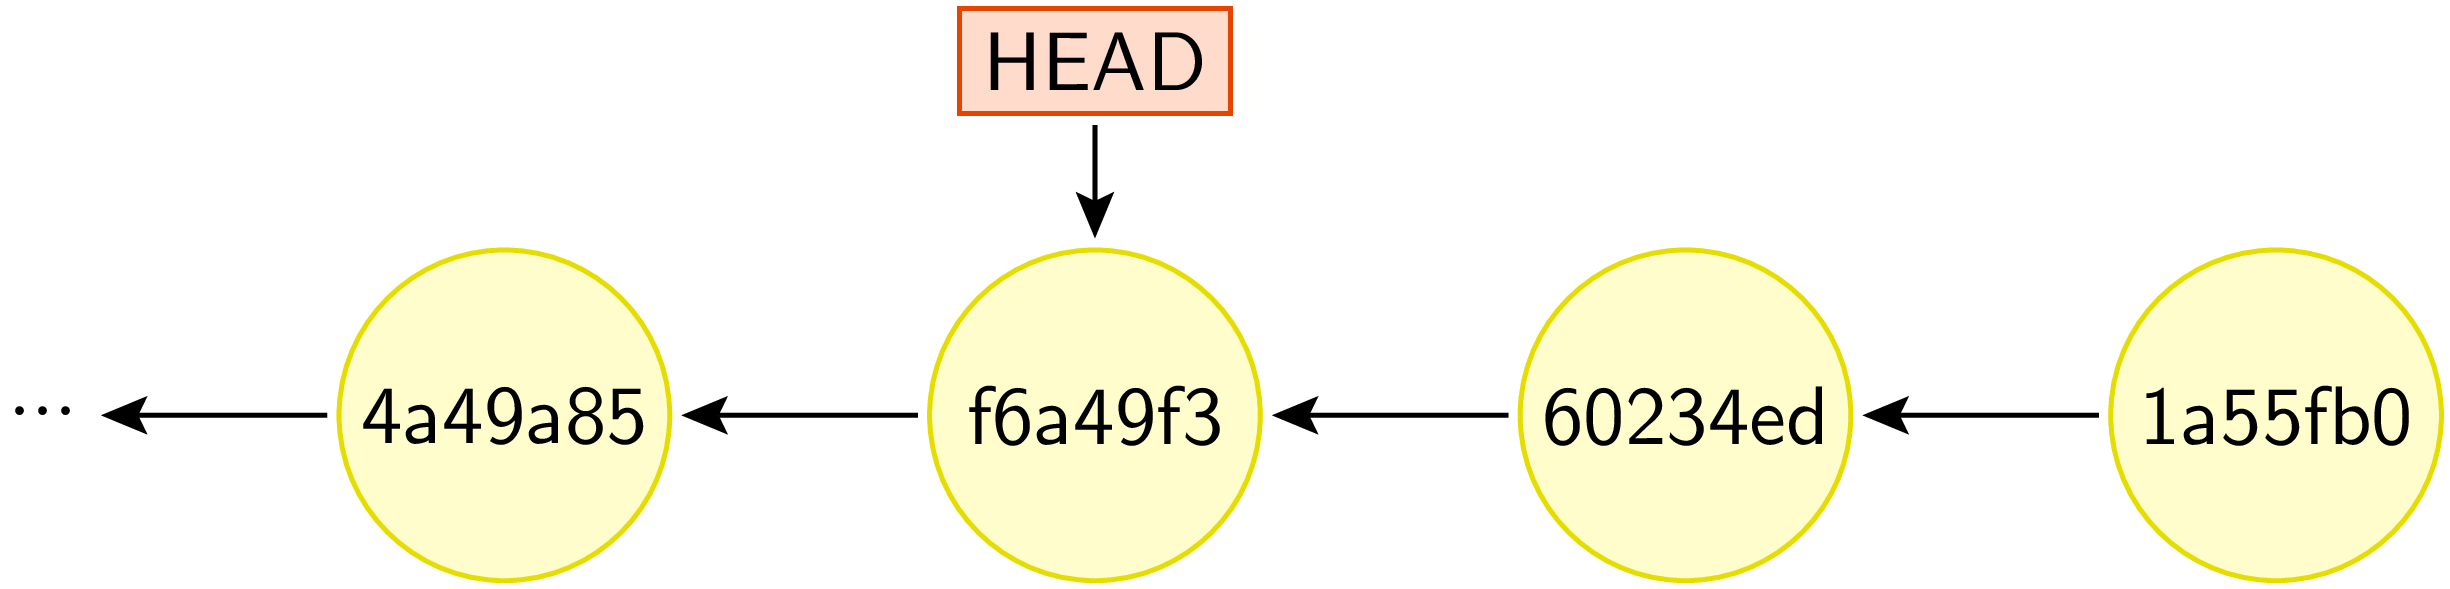
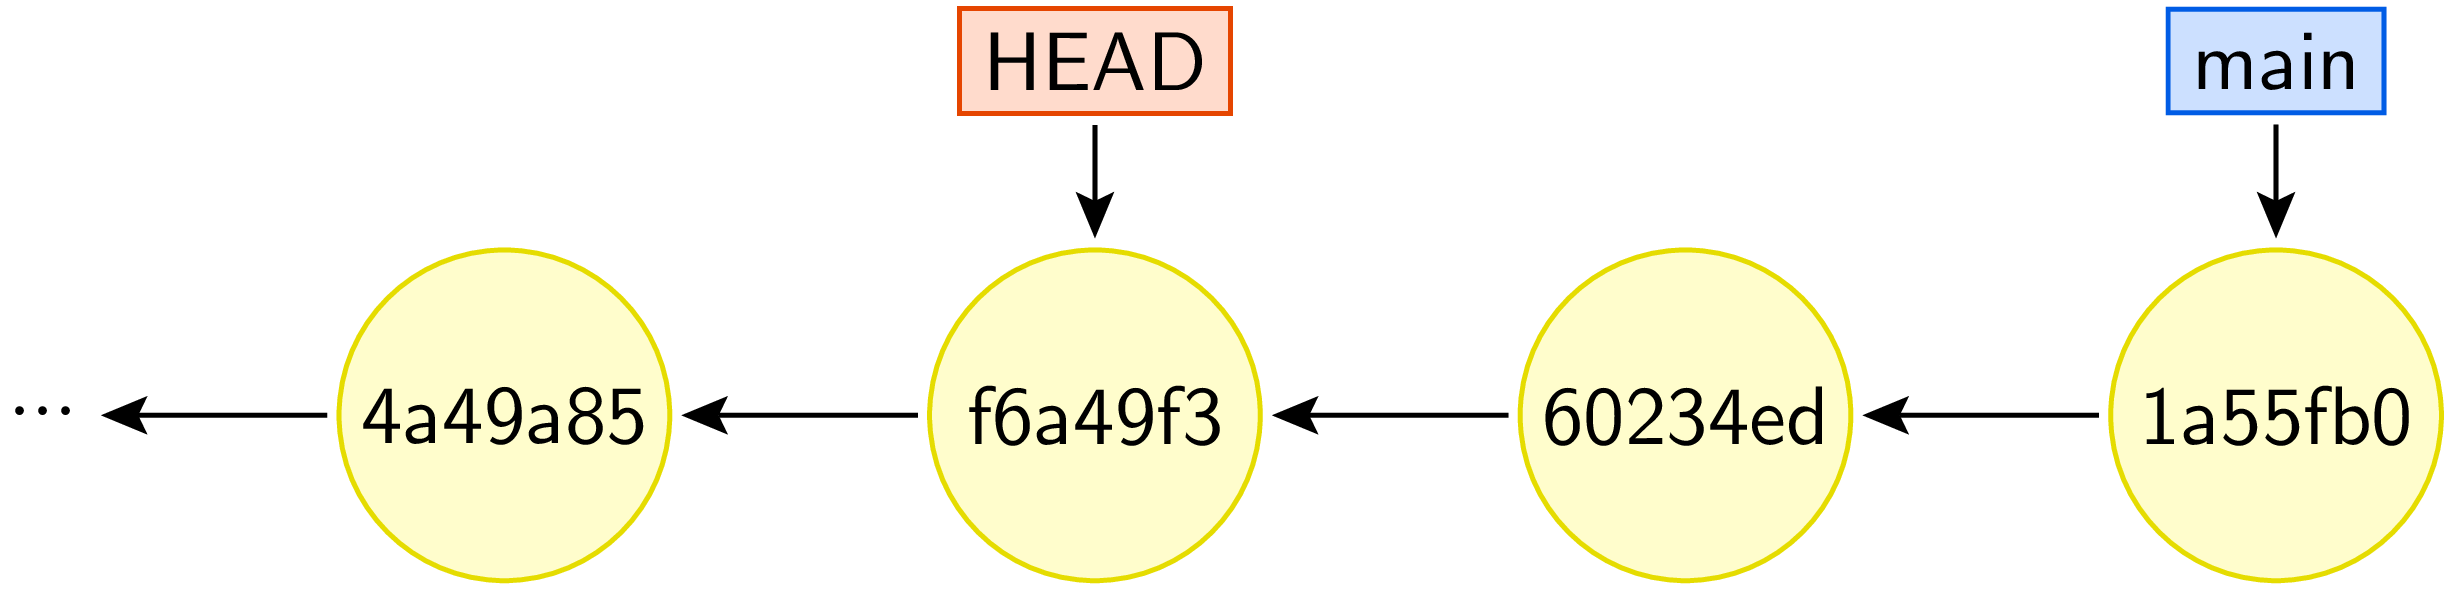
detached head diagrams added

Changed region(s): [[0.8686, 0.0, 0.9927, 0.2139], [0.8996, 0.3056, 0.9616, 0.3973]]

diff --git a/presentation/images/src/detachedhead.py b/presentation/images/src/detachedhead.py
@@ -65,8 +65,8 @@ for type, x, y, nr in elems:
 
 params = {1: ((0, 1, 2, 3, 4, 6, 8),
               ((1, 0), (2, 1), (3, 2), (4, 3), (6, 4), (8, 6))),
-          2: ((0, 1, 2, 3, 4, 9),
-              ((1, 0), (2, 1), (3, 2), (4, 3), (9, 2))),
+          2: ((0, 1, 2, 3, 4, 6, 9),
+              ((1, 0), (2, 1), (3, 2), (4, 3), (9, 2), (6, 4))),
           3: ((0, 1, 2, 3, 4, 5, 11),
               ((1, 0), (2, 1), (3, 2), (4, 3), (5, 2), (11, 5))),
           4: ((0, 1, 2, 3, 4, 5, 7, 10),

diff --git a/presentation/slides.md b/presentation/slides.md
@@ -2398,3 +2398,25 @@ Your branch is up to date with 'origin/main'.
 
 ---
 
+# Overall picture of the detached head state
+
+<div class="grid grid-cols-[1fr_1fr] gap-20">
+<div>
+
+![](images/detachedhead_1.png)
+
+<br>
+
+![](images/detachedhead_2.png)
+
+</div>
+<div>
+
+![](images/detachedhead_3.png)
+
+<br>
+
+![](images/detachedhead_4.png)
+
+</div>
+</div>
